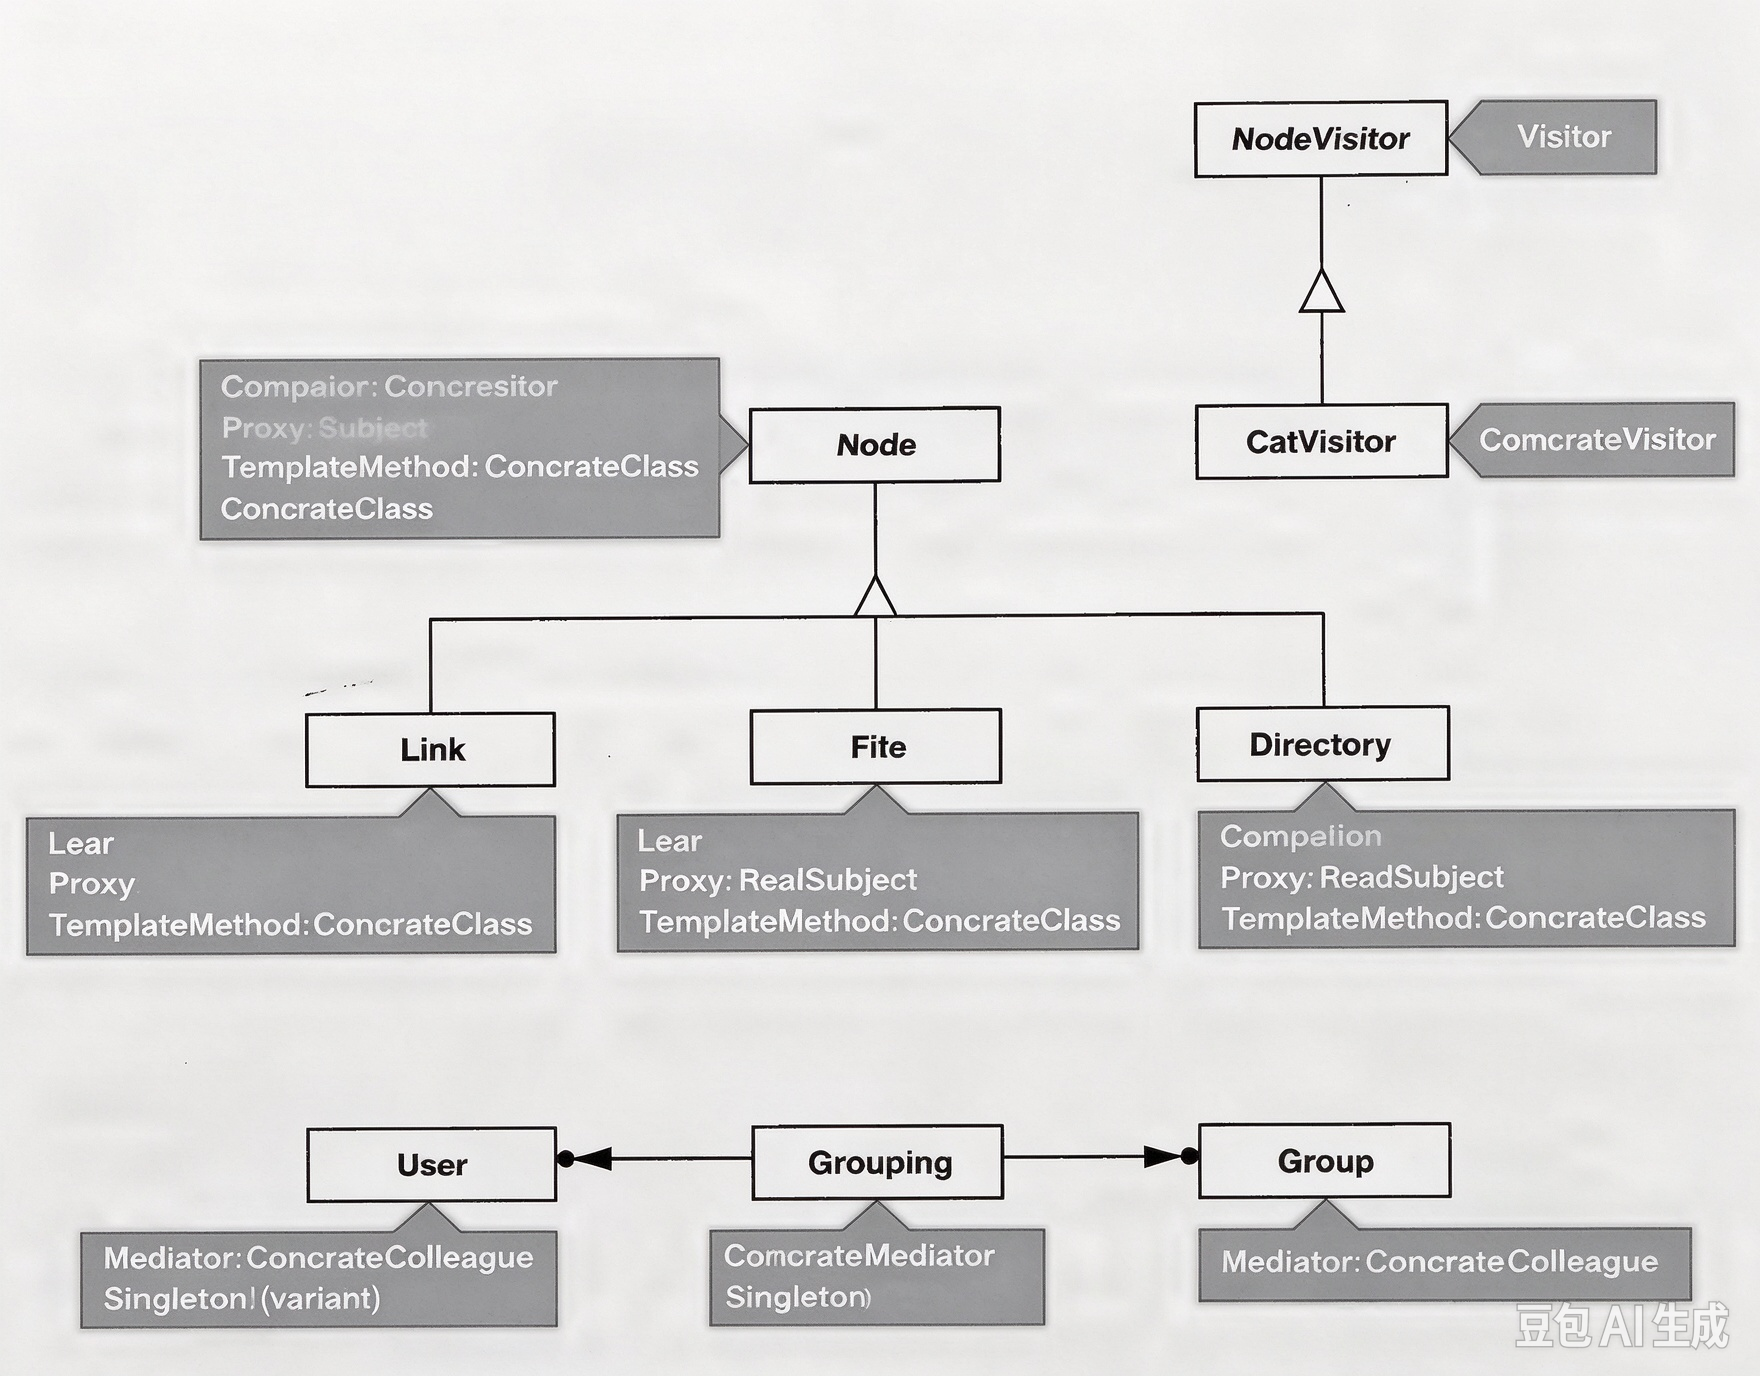
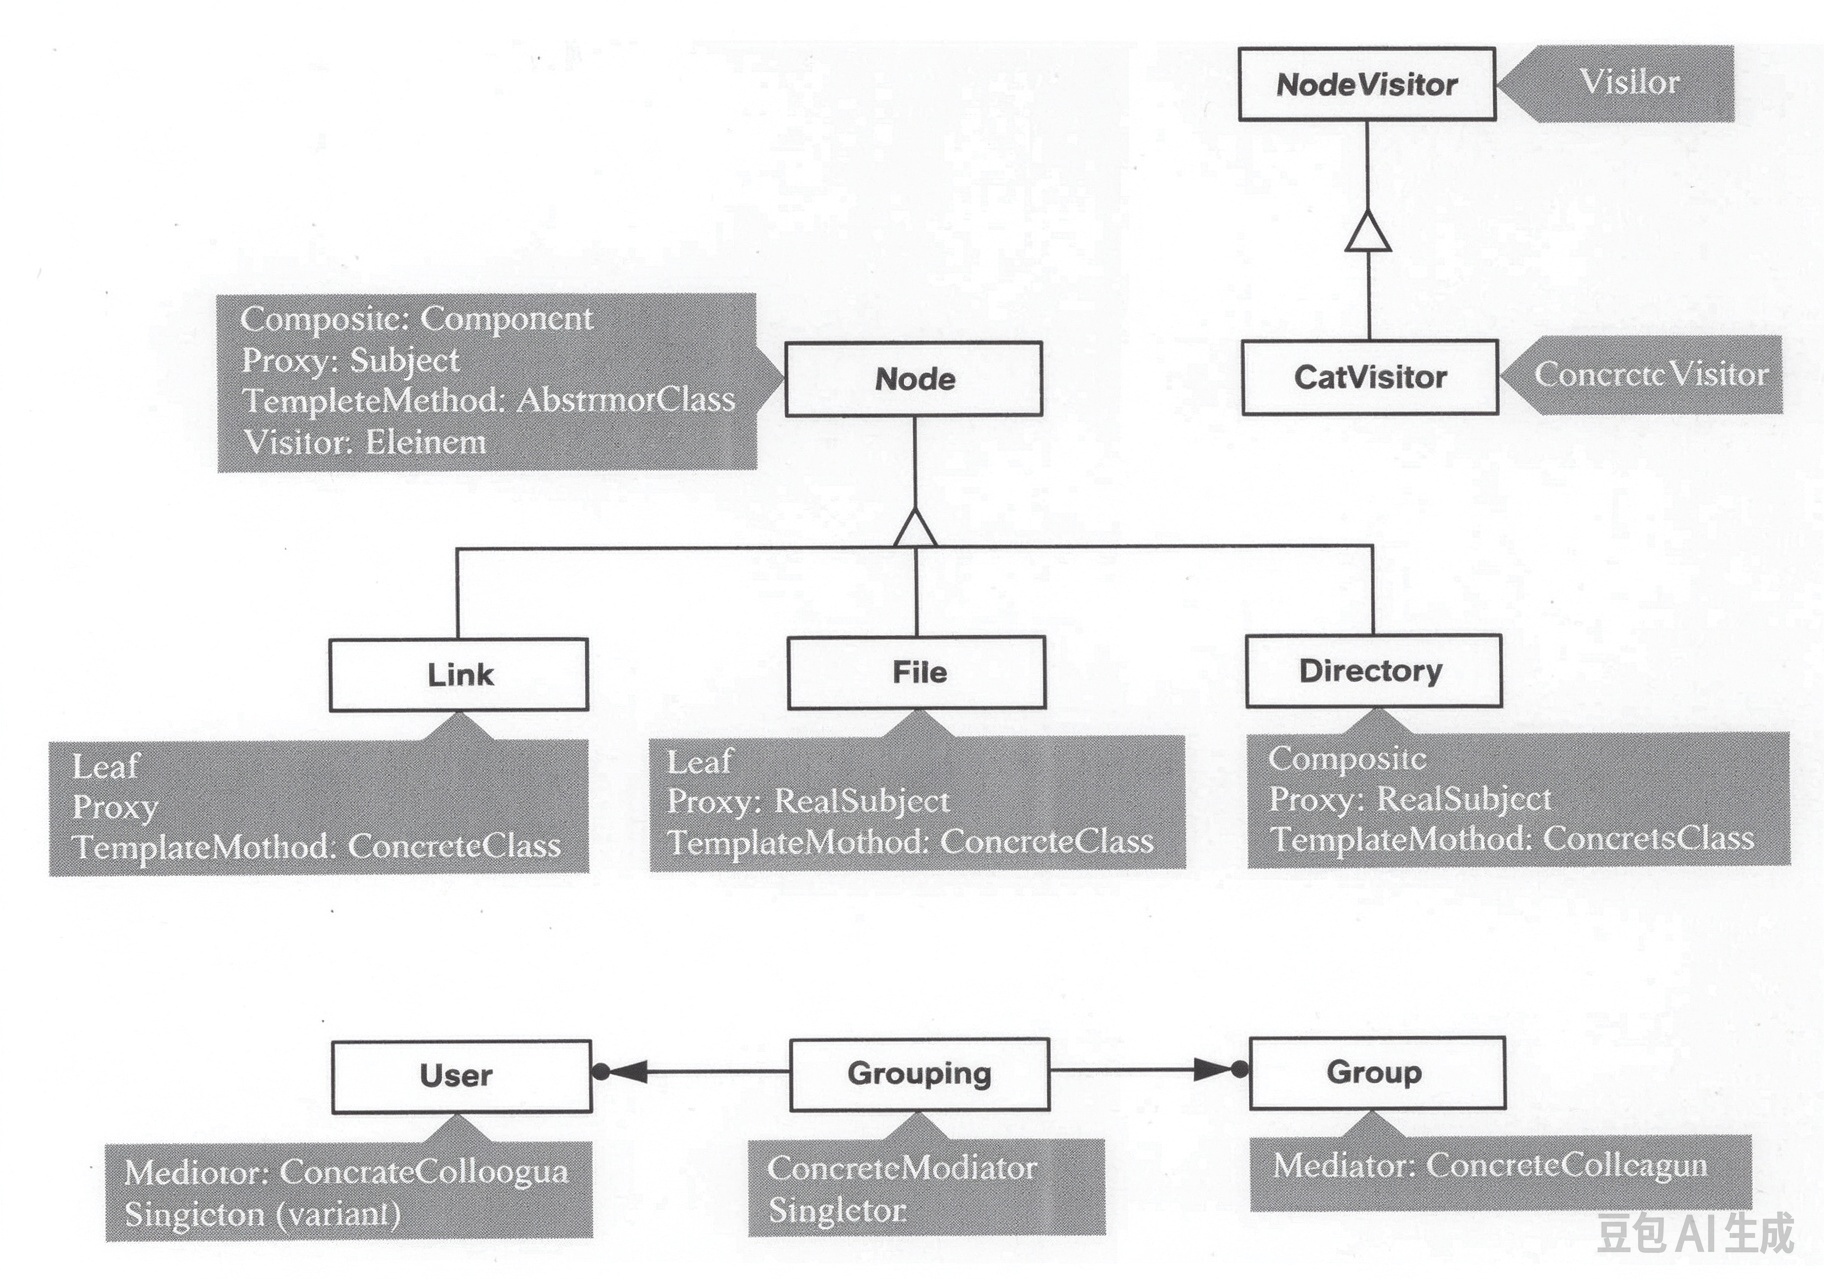
(pattern hatching): improve image quality for fig-2-3, fig-2-4

diff --git a/pattern-hatching/README.md b/pattern-hatching/README.md
@@ -23,22 +23,23 @@ John Vlissides · 1998
   - [3.1 杀死一只单例](ch3/1.md)
   - [3.2 OBSERVER 的麻烦](ch3/2.md)
   - [3.3 再访 VISITOR](ch3/3.md)
-  - [3.4 代沟](ch3/4.md)
+  - [3.4 GENERATION GAP](ch3/4.md)
   - [3.5 类型洗白](ch3/5.md)
   - [3.6 多谢内存泄漏](ch3/6.md)
   - [3.7 推我-拉你](ch3/7.md)
-- [第 4 章 热爱之作（Labor of Love）](ch4/0.md)
-- [第 5 章 高效模式写作者的七个习惯（Seven Habits of Effective Pattern Writers）](ch5/0.md)
-  - [5.1 习惯 1：留出反思的时间（Habit 1: Taking Time to Reflect）](ch5/1.md)
-  - [5.2 习惯 2：遵循一套结构（Habit 2: Adhering to a Structure）](ch5/2.md)
-  - [5.3 习惯 3：尽早且频繁地具体化（Habit 3: Being Concrete Early and Often）](ch5/3.md)
-  - [5.4 习惯 4：保持模式互不重叠、彼此互补（Habit 4: Keeping Patterns Distinct and Complementary）](ch5/4.md)
-  - [5.5 习惯 5：有效地表达（Habit 5: Presenting Effectively）](ch5/5.md)
-  - [5.6 习惯 6：不知疲倦地迭代（Habit 6: Iterating Tirelessly）](ch5/6.md)
-  - [5.7 习惯 7：收集并采纳反馈（Habit 7: Collecting and Incorporating Feedback）](ch5/7.md)
-  - [5.8 没有银弹（No Silver Bullet）](ch5/8.md)
+- [第 4 章 热爱之作](ch4/0.md)
+- [第 5 章 高效模式写作者的七个习惯](ch5/0.md)
+  - [5.1 习惯 1：留出反思的时间](ch5/1.md)
+  - [5.2 习惯 2：遵循一套结构](ch5/2.md)
+  - [5.3 习惯 3：尽早且频繁地具体化](ch5/3.md)
+  - [5.4 习惯 4：保持模式互不重叠、彼此互补](ch5/4.md)
+  - [5.5 习惯 5：有效地表达](ch5/5.md)
+  - [5.6 习惯 6：不知疲倦地迭代](ch5/6.md)
+  - [5.7 习惯 7：收集并采纳反馈](ch5/7.md)
+  - [5.8 没有银弹](ch5/8.md)
 - [参考书目](./biblio.md)
 
+<!--
 ## 关于本译本
 
 **底本**
@@ -84,6 +85,10 @@ John Vlissides · 1998
 - 第 3 章分节与页码对照：`0.md`=p.61（章首）、`1.md`=p.61–72、`2.md`=p.72–79（p.79 上半页两段属 3.2）、`3.md`=p.79–85（p.85 上三段属 3.3）、`4.md`=p.85–101（GENERATION GAP 按模式模板分节：模式名称至相关模式）、`5.md`=p.102–110、`6.md`=p.110–114、`7.md`=p.114–121。
 - 3.4 的「结构」一节带一张**无编号**结构图，按命名规则作 `img/fig-3-4a.png`；3.7 的 p.118 有**三张无编号**图，作 `img/fig-3-7a.png`、`fig-3-7b.png`、`fig-3-7c.png`，均不加图注。
 - 第 4 章「热爱之作」原书**没有小节**（p.123–144，共 22 页），整章即 `ch4/0.md` 一个文件。
+- 第 4 章有两张**无编号**的结构图（p.129 的 MULTICAST 结构、p.140 的 TYPED MESSAGE 结构，因本章无小节，不能按节号加后缀）：作 `img/fig-4-5.png`、`img/fig-4-6.png`，均不加图注；有编号的 FIGURE 4.1–4.4 依次为 `fig-4-1.png`–`fig-4-4.png`。
+- 第 4 章 p.140 起 TYPED MESSAGE 的各字段（意图、动机、适用性、结构……）在原书中与 MULTICAST 的同名字段同级排印；中译把前者降为三级标题，以免与后者混淆。p.141–142 的「效果」「实现」各条目在原书中即以省略号收尾（作者当时未写完），照原样保留。
+- 第 5 章分节与页码对照（本章节短、页界跨节）：`0.md`=p.145（章首）、`1.md`=p.146–147（p.147 前两段属习惯 1）、`2.md`=p.147–148、`3.md`=p.148–149（p.149 首段属习惯 3）、`4.md`=p.149、`5.md`=p.150、`6.md`=p.151（前两段）、`7.md`=p.151–152（p.152 首段属习惯 7）、`8.md`=p.152。
+- 第 5 章无插图。
 - 原书**索引**（p.157–172）按页码组织，译文页码必然失效，故暂不翻译、不设文件。
 - 原书无附录；「参考书目」（p.153–156）对应 `biblio.md`。
 
@@ -92,3 +97,5 @@ John Vlissides · 1998
 - 书名：暂作「模式孵化」，候选「模式孵育」「模式孕育」；定稿后需同步 `README.md` 标题行与 `foreword.md` 中"孵化的类比"一句。
 - `Foreword` 的中文叫法：现作「序言」（与 design-patterns 一致），备选「推荐序」。
 - 书名双关的译者注（`Pattern Hatching` ↔ `Pattern Matching`、蛋盒比喻）应放在 `ch1/0.md`（原书 p.2），不在前言。
+
+-->
